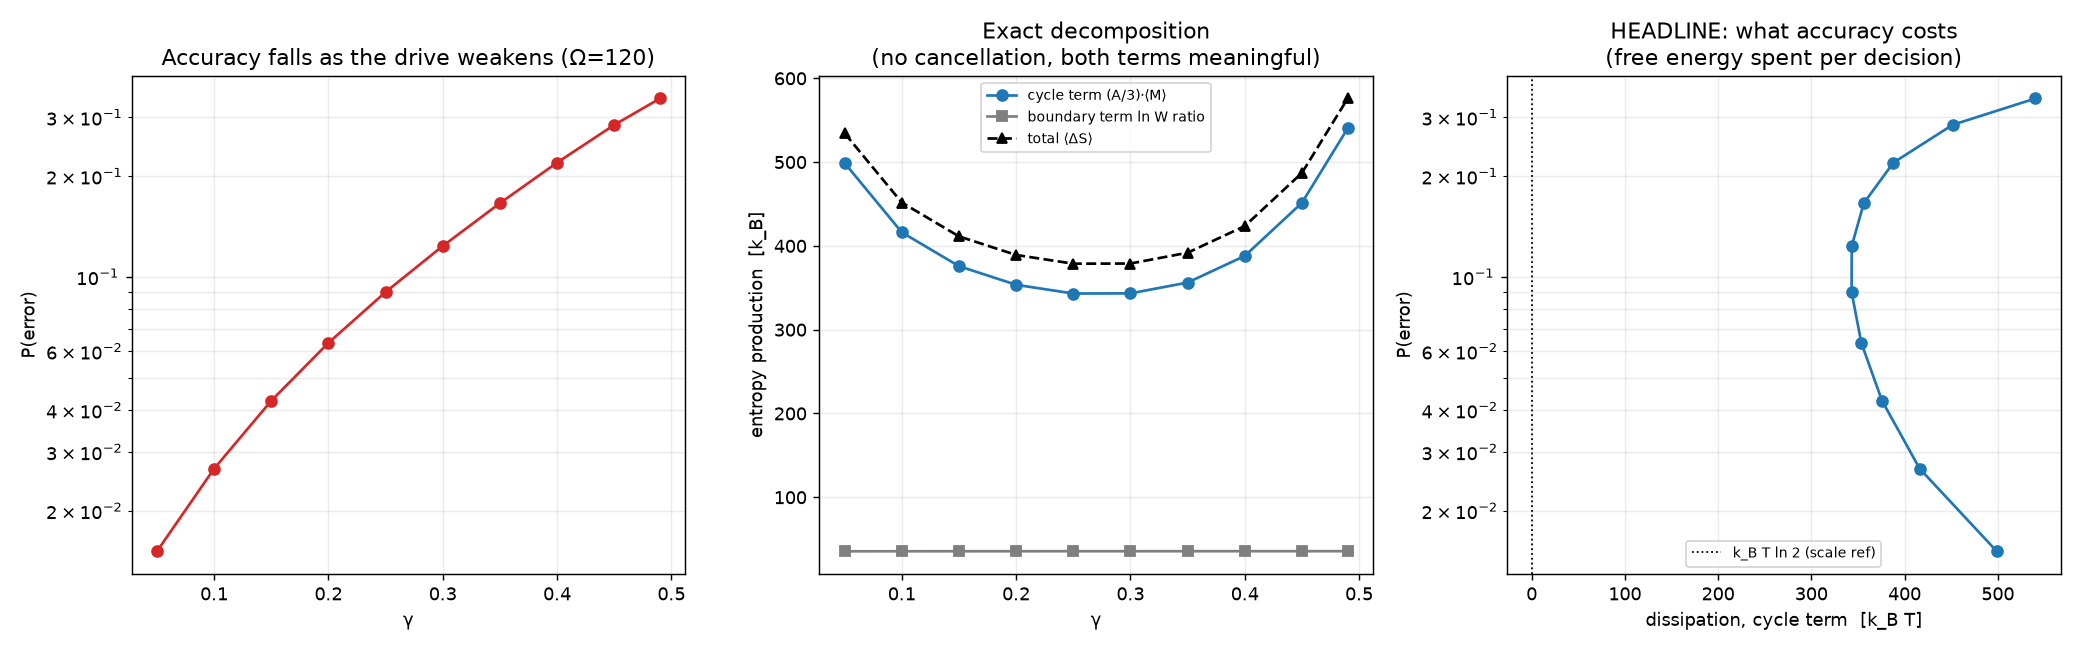
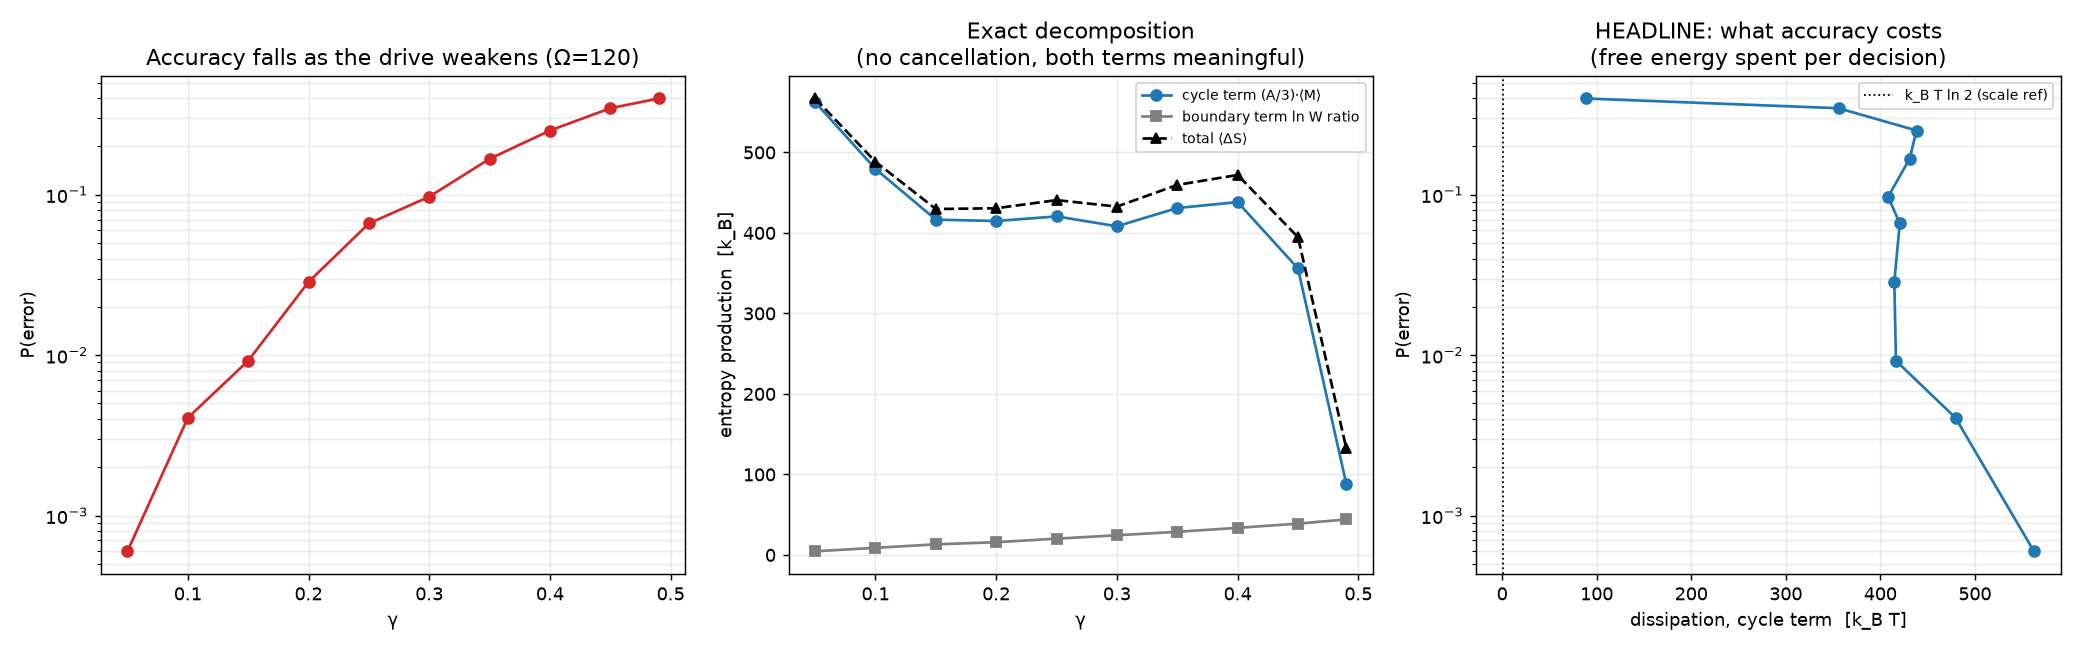
fix: Part A protocol -- scale both bias and threshold with the landscape

diff --git a/experiments/dissipation_decision.py b/experiments/dissipation_decision.py
@@ -11,12 +11,20 @@ Two independently interpretable Hill/Schnakenberg terms. The boundary term is
 small and nearly gamma-independent; the cycle term carries the physics, and is
 the x-axis of the headline plot.
 
-TWO PROTOCOL POINTS THAT ARE NOT OPTIONAL, both learned the hard way:
+TWO PROTOCOL POINTS THAT ARE NOT OPTIONAL, both learned the hard way, and both
+with DIFFERENT fixes:
 
-  * Thresholds scale with the landscape. A FIXED theta = 0.5 is unreachable above
-    gamma ~ 0.417 (delta*(0.49) = 0.187), which turns "deciding" into
-    "fluctuating past the attractor" and inflates the measured dissipation by an
-    order of magnitude -- a protocol artifact that looks exactly like physics.
+  * The decision THRESHOLD must scale with the landscape. A FIXED theta = 0.5
+    is unreachable above gamma ~ 0.417 (delta*(0.49) = 0.187), which turns
+    "deciding" into "fluctuating past the attractor" and inflates the measured
+    dissipation by an order of magnitude -- a protocol artifact that looks
+    exactly like physics. So theta is `theta_frac * delta_star(gamma)`.
+  * The initial BIAS must not jitter freely on the integer lattice -- one
+    molecule of bias is worth ~20 k_B of dissipation. So the bias is *also*
+    expressed as a fraction of delta_star(gamma) (keeping the protocol
+    difficulty comparable across gamma), but rounded to an exact integer
+    count and the REALISED fraction is reported alongside the requested one,
+    so any residual lattice jitter is visible rather than hidden.
   * The start is B(0) = 0 with the bias carried by the committed species, per
     design.md 4 and restoration_wall.py. The alternative ((1/3,1/3,1/3) + bias)
     differs by 36% in P(error).
@@ -50,20 +58,35 @@ from crnl.networks.am_reversible import (
 from crnl.thermo import decompose, ln_multinomial
 
 
-def run_gamma(gamma: float, omega: int, count_diff: int, theta_counts: int) -> dict:
+def run_gamma(gamma: float, omega: int, bias_frac: float, theta_frac: float) -> dict | None:
     """One exact solve at fixed gamma.
 
-    The bias is a fixed INTEGER count difference and the threshold a fixed
-    integer count, both held constant across the gamma sweep. Driving either off
-    a fraction of delta_star(gamma) makes the realised value jitter on the
-    integer lattice, and one molecule of bias is worth ~20 k_B of dissipation --
-    enough to manufacture a fold-back in the headline curve that looks like
-    physics. `theta_frac` remains available for single-gamma work.
+    Both the bias and the threshold are expressed as fractions of
+    delta_star(gamma) and then quantised to integer molecule counts -- the
+    landscape shrinks as gamma rises, so a fixed count for either one either
+    sits outside the landscape (threshold) or jitters uncontrollably on the
+    integer lattice relative to it (bias). Returns None (skip) rather than a
+    row when the quantised protocol is degenerate at this gamma: threshold
+    outside the landscape, or bias/threshold collision (already-absorbed
+    start).
     """
+    d_star = delta_star(gamma)
+    theta_counts = max(2, int(round(theta_frac * d_star * omega)))
+    bias_counts = max(1, int(round(bias_frac * d_star * omega)))
+
+    if not (bias_counts < theta_counts):
+        print(f"SKIPPED gamma={gamma:.3f}: bias_counts={bias_counts} >= "
+              f"theta_counts={theta_counts} (start already absorbed)")
+        return None
+    if not (theta_counts / omega < d_star):
+        print(f"SKIPPED gamma={gamma:.3f}: theta={theta_counts / omega:.4f} "
+              f">= delta_star={d_star:.4f} (threshold outside the landscape)")
+        return None
+
     net = am_reversible(gamma)
     pairing = reverse_pairing(net)
     A = cycle_affinity(net, pairing)
-    n0 = initial_counts(omega, gamma, count_diff=count_diff)
+    n0 = initial_counts(omega, gamma, count_diff=bias_counts)
 
     def absorbing(n):
         return abs(int(n[0]) - int(n[1])) >= theta_counts
@@ -81,10 +104,11 @@ def run_gamma(gamma: float, omega: int, count_diff: int, theta_counts: int) -> d
         "affinity": A,
         "theta_counts": theta_counts,
         "theta": theta_counts / omega,
-        "delta_star": delta_star(gamma),
-        "theta_over_delta_star": (theta_counts / omega) / delta_star(gamma),
-        "count_diff": count_diff,
+        "delta_star": d_star,
+        "theta_over_delta_star": (theta_counts / omega) / d_star,
+        "bias_counts": bias_counts,
         "realised_bias": float((n0[0] - n0[1]) / omega),
+        "bias_over_delta_star": float((n0[0] - n0[1]) / omega) / d_star,
         "p_error": 1.0 - fp["split"],
         "mean_time": fp["mean_time"],
         "sigma": sigma,
@@ -139,38 +163,36 @@ def main():
     p.add_argument("--omega", type=int, default=120)
     p.add_argument("--gammas", type=float, nargs="+",
                    default=[0.05, 0.1, 0.15, 0.2, 0.25, 0.3, 0.35, 0.4, 0.45, 0.49])
-    p.add_argument("--count-diff", type=int, default=16,
-                   help="initial n_X - n_Y, an exact integer held across the sweep")
-    p.add_argument("--theta-counts", type=int, default=None,
-                   help="decision threshold in molecules; default 0.35*omega. "
-                        "Held constant across gamma so the protocol does not "
-                        "jitter on the integer lattice.")
+    p.add_argument("--bias-frac", type=float, default=0.2,
+                   help="initial |n_X - n_Y| as a fraction of delta_star(gamma), "
+                        "quantised to an integer molecule count per gamma")
+    p.add_argument("--theta-frac", type=float, default=0.7,
+                   help="decision threshold as a fraction of delta_star(gamma), "
+                        "quantised to an integer molecule count per gamma")
     p.add_argument("--out", default=os.path.join(here, "dissipation_decision.png"))
     p.add_argument("--data", default=os.path.join(
         here, os.pardir, "results", "dissipation_decision.json"))
     args = p.parse_args()
 
-    theta_counts = args.theta_counts or int(round(0.35 * args.omega))
-
     print(f"Part A: exact cost of a decision  (Omega={args.omega}, "
-          f"count_diff={args.count_diff}, theta={theta_counts} molecules)")
-    rows = [run_gamma(g, args.omega, args.count_diff, theta_counts)
-            for g in args.gammas if g < GAMMA_C]
+          f"bias_frac={args.bias_frac}, theta_frac={args.theta_frac}, "
+          "both scaled per-gamma by delta_star(gamma))")
+    results = [(g, run_gamma(g, args.omega, args.bias_frac, args.theta_frac))
+               for g in args.gammas if g < GAMMA_C]
+    skipped = [g for g, r in results if r is None]
+    rows = [r for _, r in results if r is not None]
 
-    print(f"{'gamma':>6} {'A':>7} {'th/d*':>7} {'bias':>7} {'P(err)':>9} "
+    print(f"{'gamma':>6} {'A':>7} {'th/d*':>7} {'bias/d*':>8} {'P(err)':>9} "
           f"{'<T>':>9} {'cycle':>10} {'bound':>8} {'total':>10} valid")
     for r in rows:
         print(f"{r['gamma']:>6.3f} {r['affinity']:>7.3f} "
               f"{r['theta_over_delta_star']:>7.3f} "
-              f"{r['realised_bias']:>7.4f} {r['p_error']:>9.4g} "
+              f"{r['bias_over_delta_star']:>8.4f} {r['p_error']:>9.4g} "
               f"{r['mean_time']:>9.3g} {r['cycle']:>10.2f} {r['boundary']:>8.2f} "
               f"{r['total']:>10.2f} {r['valid']}")
 
-    unreachable = [r["gamma"] for r in rows if r["theta_over_delta_star"] >= 1.0]
-    if unreachable:
-        print(f"\nWARNING: theta exceeds delta* at gamma = {unreachable}; there "
-              "the 'decision' is a fluctuation PAST the attractor and the "
-              "dissipation is a protocol artifact. Lower --theta-counts.")
+    if skipped:
+        print(f"\nSKIPPED (degenerate quantised protocol): gamma = {skipped}")
 
     dropped = [r["gamma"] for r in rows if not r["valid"]]
     if dropped:
@@ -178,8 +200,9 @@ def main():
 
     os.makedirs(os.path.dirname(os.path.abspath(args.data)), exist_ok=True)
     with open(args.data, "w") as fh:
-        json.dump({"omega": args.omega, "count_diff": args.count_diff,
-                   "theta_counts": theta_counts, "rows": rows}, fh, indent=2)
+        json.dump({"omega": args.omega, "bias_frac": args.bias_frac,
+                   "theta_frac": args.theta_frac, "skipped_gammas": skipped,
+                   "rows": rows}, fh, indent=2)
     print(f"wrote data -> {args.data}")
     make_figure(rows, args.omega, args.out)
 
